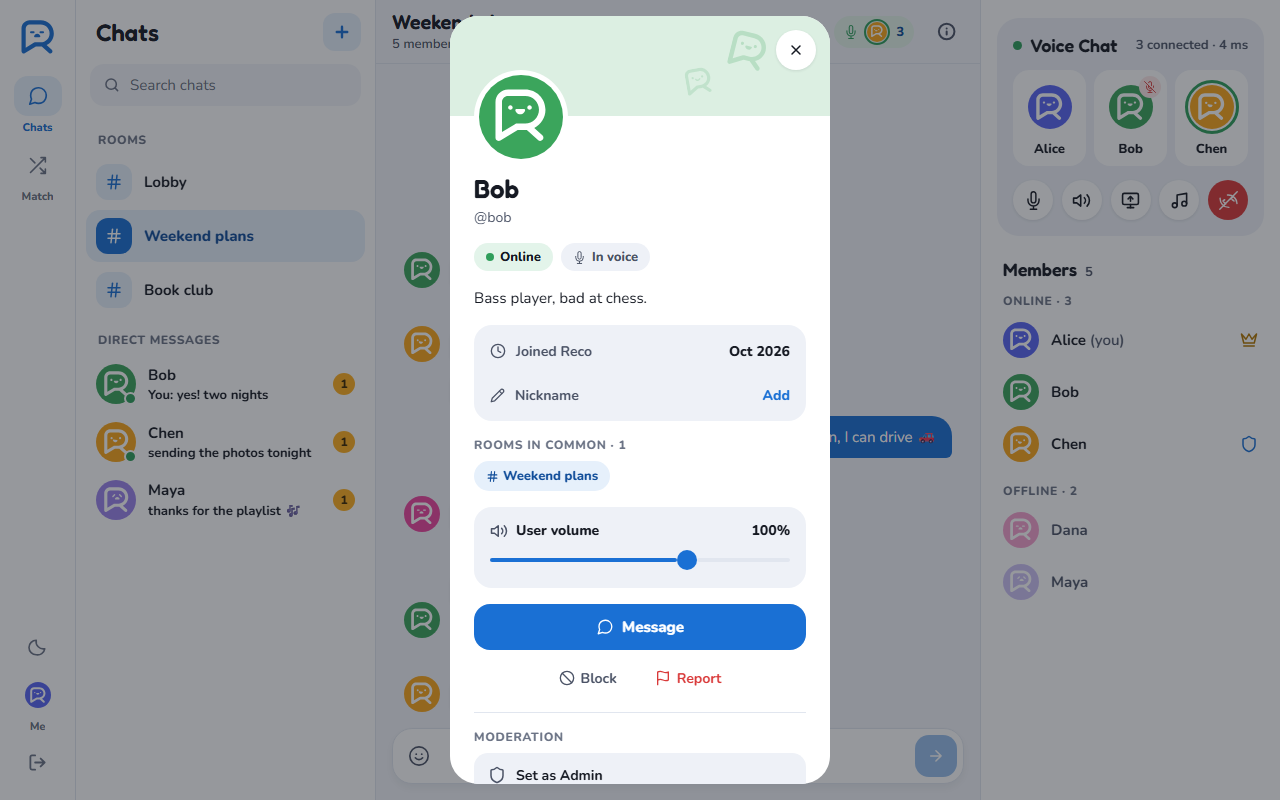
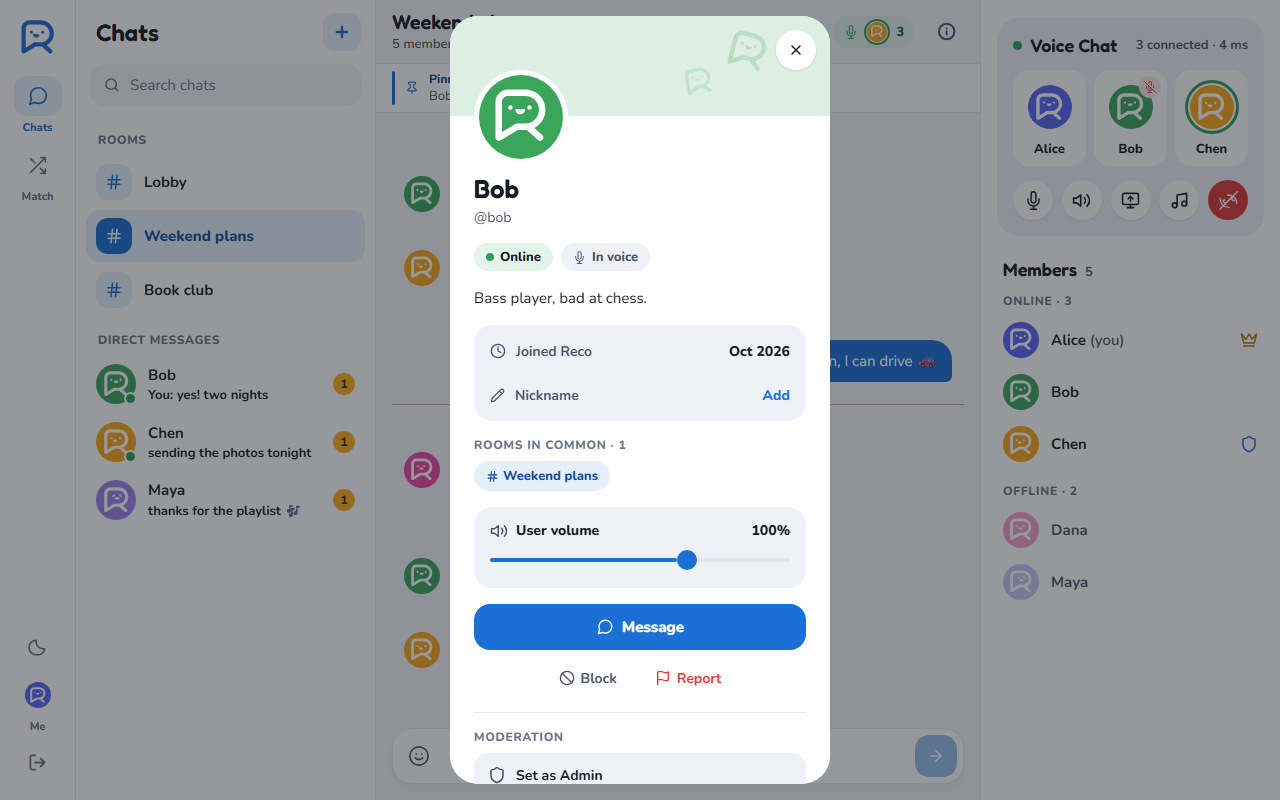
Refresh the README for the finished portfolio version
- New screenshots: the main one now shows a pinned message, "New messages"
  since the last visit, a link and an @mention next to the voice channel.
- Two design notes: reports keep the evidence as it was, and limits are
  keyed on what a client can't change.
- The e2e list, coverage (90%), deployment (hourly cleanup, PRs gated by
  CI) and the moderation panel brought up to date.
- A "Before a public launch" section: what's left out on purpose (email,
  terms and image moderation, staging and backups, scale).
- The cold-start note was out of date: the instance is kept awake.

diff --git a/README.md b/README.md
@@ -6,10 +6,10 @@ Socket.IO backend handles realtime traffic, and Postgres stores the data.
 
 **Live demo:** https://chat-5wg8.onrender.com. Click **"Take a look first"** to open a
 read-only demo room without an account; the **Match** tab shows the matching screen
-too (starting a match needs an account, since it pairs you with real people). The
-free instance sleeps when idle, so the first load can take up to a minute.
+too (starting a match needs an account, since it pairs you with real people). It runs
+on a small free instance, so the first load can take a few seconds.
 
-![Desktop: a group room with a voice channel going and an @mention](docs/screenshots/desktop-room.png)
+![Desktop: a group room with a voice channel going, a pinned message, new messages since your last visit, a link and an @mention](docs/screenshots/desktop-room.png)
 
 | Random match (desktop) | Random match (phone) | Chats with DM previews (phone) |
 |---|---|---|
@@ -113,8 +113,9 @@ free instance sleeps when idle, so the first load can take up to a minute.
   voice events are rate-limited, an account's login locks after repeated wrong
   passwords, and a session in use is renewed daily instead of expiring.
 - **Moderation panel** (`/admin`): users (reset password, rename, suspend for a while
-  or for good, lift a login lock, delete), rooms (kick, text and voice restrictions, recall), reports
-  with the reported message or match transcript, feedback, and TURN relay usage. A small script on the coturn host
+  or for good, lift a login lock, delete), rooms (kick, text and voice restrictions,
+  recall), reports with the reported message or match transcript, feedback, current
+  login locks, photo storage, and TURN relay usage. A small script on the coturn host
   (`deploy/turn/`) reads coturn's log every minute, keeps only signed-in relay
   sessions (start, end, traffic) and a count of STUN probes, and posts them to the
   server signed with the TURN shared secret.
@@ -174,6 +175,13 @@ flowchart LR
   acknowledgement (`{ok, id}` or `{ok: false, code}`) and the broadcast carries the
   sender's client id, so the client can show a message before the server has it and
   resend it safely.
+- **Evidence stays as it was.** A report keeps the text of the reported message at that
+  moment, and a match transcript can't be edited or recalled by its sender, so editing
+  or deleting something after it's reported changes nothing for the moderators. No room
+  can be named like a transcript (`match:<id>`).
+- **Limits are keyed on what a client can't change.** Wrong passwords lock the account;
+  limits per address (the first `X-Forwarded-For` hop, which a client can fake) are
+  only a second, softer layer, and failed admin sign-ins have an overall cap too.
 - **Replies are codes, not strings.** For example, `fail('join', 'wrong_password')`.
   The client's i18n layer turns them into text, and a test checks that every server
   code has a translation.
@@ -261,16 +269,18 @@ npm run typecheck && npm run lint && npm test     # 49 frontend unit tests
 ```
 
 The backend tests start a disposable Postgres (via `pgserver`) and drive the real
-Socket.IO server with test clients; they cover 88% of the backend's lines. The
+Socket.IO server with test clients; they cover 90% of the backend's lines. The
 end-to-end tests serve the production web build (`cd app && npx expo export -p web`
 first) and use Playwright to cover flows such as:
 
 - two browsers exchanging messages live, and messages showing right after a reload
 - a message that wasn't delivered, sent again with a tap
-- @mentioning someone, and their list saying so
+- @mentioning someone (and @everyone), and their list saying so
+- links, pinned messages, a draft waiting in its chat, "New messages" on return
 - a profile card opened from a message, taking a nickname
-- voice: mute, deafen, leave and rejoin, coming back after the connection drops, and
-  an admin removing someone
+- reporting a message, and a stranger who has already left
+- voice: mute, deafen, leave and rejoin, coming back after the connection drops, an
+  admin removing someone, and sharing a screen (with your own preview)
 - the guest demo staying read-only
 - two strangers matching, chatting and both choosing to keep in touch
 
@@ -312,9 +322,10 @@ Render builds with `./build.sh` (backend dependencies, then the web app into
 `app/dist`, which is not committed) and runs `gunicorn wsgi:app`, with
 `gunicorn.conf.py` supplying the settings. CI runs the same production build on
 every push, so a change that wouldn't build never reaches the host.
-`wsgi.py` runs migrations on boot. Flask serves the Expo web build from `app/dist`,
-so the app and the API share one origin. `/health` checks the database for Render's health
-check.
+`wsgi.py` runs migrations on boot and starts an hourly cleanup (expired match
+transcripts, photos nobody can see). Flask serves the Expo web build from `app/dist`,
+so the app and the API share one origin. `/health` checks the database for Render's
+health check. Changes reach `main` through pull requests that CI must pass first.
 
 ## Trade-offs and what I'd change at scale
 
@@ -339,6 +350,20 @@ check.
   exposing IP addresses to anonymous partners.
 - **Retention.** Match transcripts exist only so reports can be reviewed. A
   background job deletes them after 7 days.
+
+## Before a public launch
+
+Reco is complete as a portfolio project. These are left out on purpose, and would
+come first if it opened to the public:
+
+- **Email**: an own domain, email verification and password reset by email, instead
+  of security questions.
+- **Terms and safety**: terms of service, a full privacy policy and an age gate, and
+  automated moderation of uploaded images, which stranger matching with photos needs.
+- **Operations**: a staging environment, tested database backups and restores, and a
+  second TURN server.
+- **Scale**: the steps in the trade-offs above (Redis and several workers, an SFU,
+  object storage), once real traffic asks for them.
 
 ## License
 
